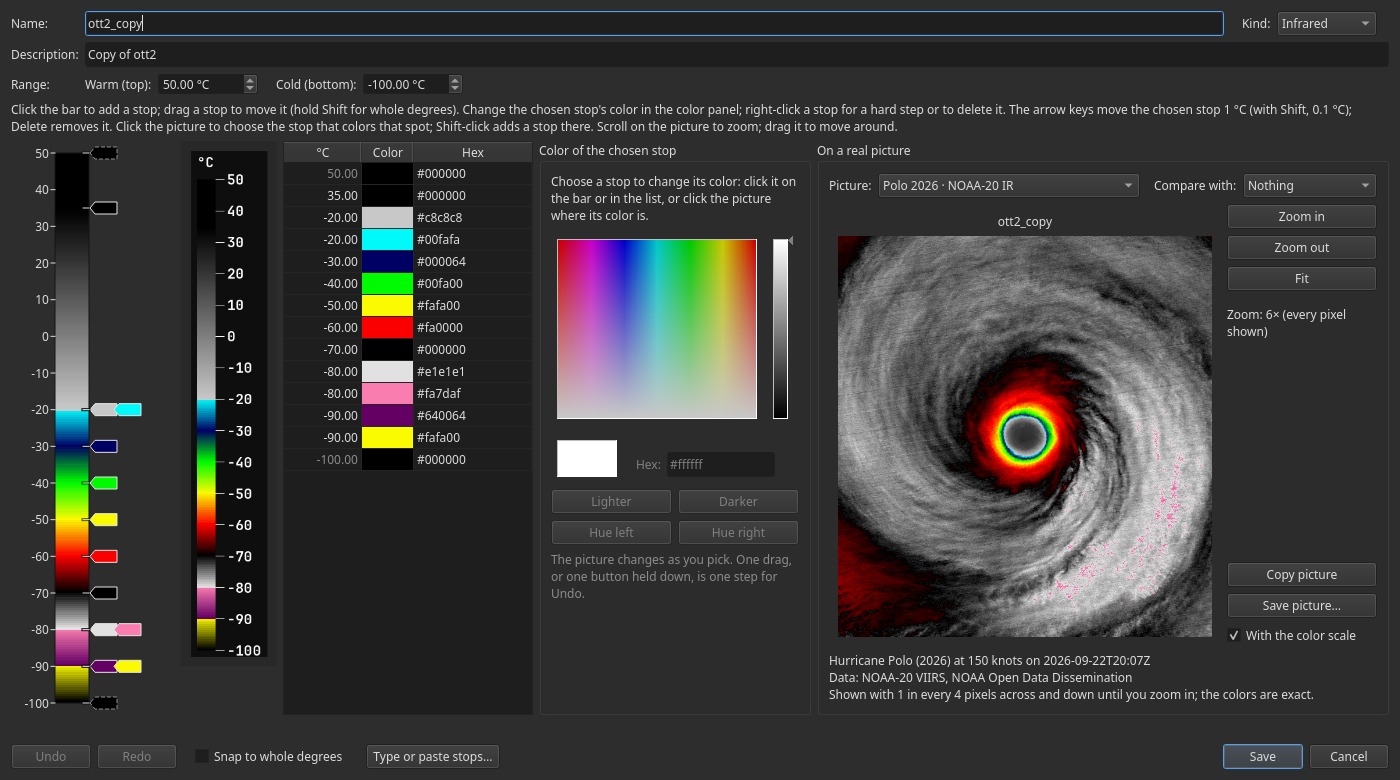
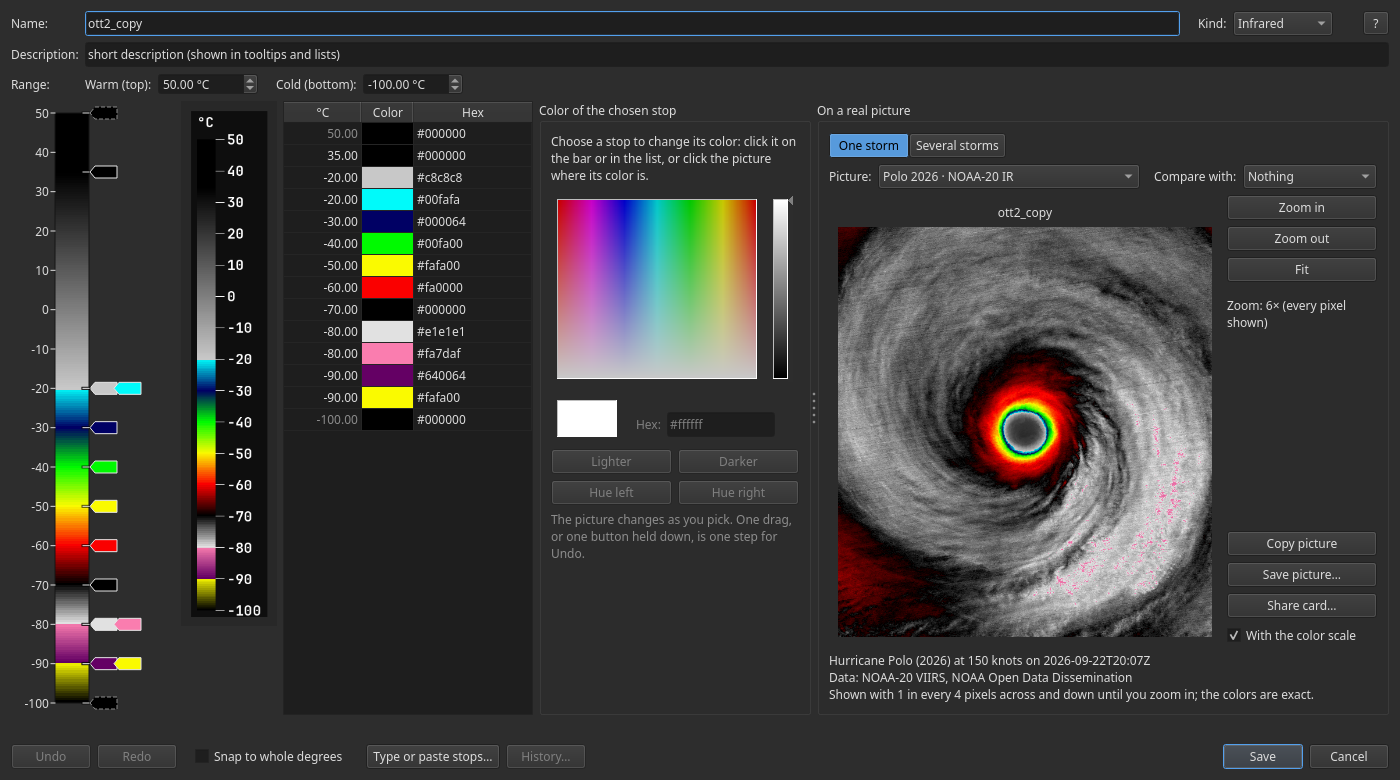
Update from tcviz e548938

diff --git a/tcviz_gui/pages/colortable_editor_dialog.py b/tcviz_gui/pages/colortable_editor_dialog.py
@@ -1074,7 +1074,8 @@ class ColortableEditorDialog(QDialog):
         self._show_swipe_controls(compare, swipe)
         if not swipe:
             self.picture_pane.set_swipe(None)
-        if source is None:
+        if source is None or self._loading:
+            # (an edit while another picture is read leaves the words, not the picture before it)
             message = "Loading the picture…" if self._loading else "No picture."
             self.picture_pane.set_message(message)
             self.compare_pane.set_message(message)
@@ -1561,9 +1562,13 @@ class ColortableEditorDialog(QDialog):
 
     def open_storm(self, sample_id):
         """Show bundled sample `sample_id` on its own: One storm, with it in the Picture box
-        (a double-click on a storm of the grid). Whether it is shown."""
-        if not self.show_sample(sample_id):
+        (a double-click on a storm of the grid), read in the background as one chosen there
+        is. Whether it is shown, or being read to be."""
+        choice = f"bundled:{sample_id}"
+        if sample_id not in self._bundled:
             return False
+        if choice != self._picture_choice or self._preview is None:
+            self._load_bundled(choice)
         self.set_view("one")
         self._say(f"Showing {self._bundled[sample_id].label} on its own. Several storms shows the grid again.")
         return True
@@ -1645,7 +1650,9 @@ class ColortableEditorDialog(QDialog):
         if not choice or choice == self._picture_choice:
             return
         what, value = choice.split(":", 1)
-        if what in ("sample", "bundled"):
+        if what == "bundled":
+            self._load_bundled(choice)
+        elif what == "sample":
             self._load_choice(choice)
         elif what in ("recent", "file"):
             self._load_file(value, choice)
@@ -1668,7 +1675,10 @@ class ColortableEditorDialog(QDialog):
         return f"sample:{kind}"
 
     def _load_choice(self, choice):
-        """Show a sample: "sample:<kind>" (tcviz's own) or "bundled:<id>"."""
+        """Show a sample now: "sample:<kind>" (tcviz's own) or "bundled:<id>" -- read here, on
+        the window's own thread (a picture chosen in the Picture box is read in the
+        background instead: _load_bundled)."""
+        self._job = next(self._jobs)        # a picture still being read in the background is not wanted now
         what, value = choice.split(":", 1)
         if what == "bundled":
             sample = self._bundled.get(value)
@@ -1686,6 +1696,7 @@ class ColortableEditorDialog(QDialog):
         self._load_sample(value)
 
     def _load_sample(self, kind):
+        self._job = next(self._jobs)
         try:
             self._preview = colortable_preview.load_sample(kind)
         except (OSError, ValueError) as e:
@@ -1698,13 +1709,45 @@ class ColortableEditorDialog(QDialog):
     def _load_file(self, path, choice):
         """Open a saved picture in the background: a big one takes a moment to read."""
         from tcviz_gui.worker import run_in_background
-        self._loading = path
+        self._start_loading(path, choice)
+        run_in_background(_load_picture_job, path, str(_output_dir()), self._job,
+                          on_finished=self._on_picture_loaded, on_failed=self._on_picture_failed)
+
+    def _load_bundled(self, choice):
+        """A bundled sample chosen in the Picture box, read in the background: a VIIRS or SGLI
+        one takes about a second to unpack, which held the whole window still."""
+        from tcviz_gui.worker import run_in_background
+        sample = self._bundled.get(choice.split(":", 1)[1])
+        if sample is None:
+            self._load_choice(choice)       # says it can't be opened
+            return
+        self._start_loading(choice, choice)
+        run_in_background(_load_bundled_job, sample, self._job, on_finished=self._on_bundled_loaded,
+                          on_failed=self._on_picture_failed)
+
+    def _start_loading(self, what, choice):
+        self._loading = what
         self._job = next(self._jobs)
         self.picture_pane.set_message("Loading the picture…")
         self.compare_pane.set_message("Loading the picture…")
         self._pending_choice = choice
-        run_in_background(_load_picture_job, path, str(_output_dir()), self._job,
-                          on_finished=self._on_picture_loaded, on_failed=self._on_picture_failed)
+        at = self.picture_combo.findData(choice)
+        if at >= 0:
+            # the Picture box names it at once (as it does a picture chosen in it)
+            self.picture_combo.blockSignals(True)
+            self.picture_combo.setCurrentIndex(at)
+            self.picture_combo.blockSignals(False)
+
+    def _on_bundled_loaded(self, result):
+        job, source, why = result
+        if job != self._job:
+            return                  # a picture asked for before the latest one
+        self._loading = None
+        self._picture_choice = self._pending_choice
+        self._preview = source
+        if why is not None:
+            self._say(f"The sample picture could not be opened ({why}).")
+        self._after_picture()
 
     def _on_picture_loaded(self, result):
         job, source = result
@@ -1717,6 +1760,8 @@ class ColortableEditorDialog(QDialog):
         self._after_picture()
 
     def _on_picture_failed(self, message):
+        if self._loading is None:
+            return                  # a picture shown since: this one is not wanted any more
         self._loading = None
         self._say(f"That picture could not be opened: {message}")
         self._after_picture()
@@ -1992,6 +2037,15 @@ class ColortableEditorDialog(QDialog):
 def _load_picture_job(path, root, job):
     """Runs on a background thread: one saved picture, ready to preview."""
     return job, colortable_preview.load_picture(path, root=root)
+
+
+def _load_bundled_job(sample, job):
+    """Runs on a background thread: a bundled sample, ready to preview -- (job, the picture,
+    None), or (job, None, why it can't be opened)."""
+    try:
+        return job, colortable_preview.load_bundled(sample), None
+    except (OSError, ValueError) as e:
+        return job, None, str(e)
 
 
 def _output_dir():

diff --git a/tests/test_colortable_edition.py b/tests/test_colortable_edition.py
@@ -403,6 +403,17 @@ def test_built_in_tables_are_copied_not_changed(qapp, editor_edition):
 
 # ------------------------------------------------------------- the picture box
 
+def _wait_for(qapp, until, seconds=20):
+    import time
+
+    from PySide6.QtCore import QEventLoop
+    deadline = time.monotonic() + seconds
+    while not until() and time.monotonic() < deadline:
+        qapp.processEvents(QEventLoop.ProcessEventsFlag.AllEvents, 50)
+        time.sleep(0.01)
+    assert until()
+
+
 def test_the_picture_box_lists_the_bundled_samples(qapp, editor_edition, monkeypatch):
     from tcviz_gui.pages.colortable_editor_dialog import ColortableEditorDialog
     manifest = _manifest(editor_edition["editor"].parent / "samples", SAMPLES)
@@ -414,8 +425,10 @@ def test_the_picture_box_lists_the_bundled_samples(qapp, editor_edition, monkeyp
     assert d.picture_combo.itemData(0, 3) == SAMPLES[0]["description"]          # Qt.ToolTipRole
     assert d.picture_note.text().startswith(SAMPLES[0]["description"] + "\nPicture: NOAA GOES-19.")
     assert d._preview.full_shape == (40, 40) and not d._preview.water_vapor
-    d._on_picture_combo(1)
-    assert d.picture_combo.currentData() == "bundled:melissa_wv" and d._preview.water_vapor
+    d._on_picture_combo(1)                      # read in the background, the box naming it at once
+    assert d.picture_combo.currentData() == "bundled:melissa_wv" and d.picture_pane.message == "Loading the picture…"
+    _wait_for(qapp, lambda: d._loading is None)
+    assert d._picture_choice == "bundled:melissa_wv" and d._preview.water_vapor
     d.set_kind("wv")                                        # a water-vapor table opens on its own sample
     assert d.picture_combo.currentData() == "bundled:melissa_wv"
     d.undo_stack.setClean()
@@ -697,6 +710,8 @@ def test_several_storms_shows_the_table_on_several_storms_at_once(qapp, editor_e
     assert g.front is None and not g.back_btn.isEnabled()
     # a double-click: the storm on its own
     assert g.open_storm("melissa_wv") and d.view() == "one" and d.picture_combo.currentData() == "bundled:melissa_wv"
+    wait(lambda: d._loading is None)
+    assert d._picture_choice == "bundled:melissa_wv"
     assert d.set_view("several")
     d._ask_save_path = lambda suggested: str(tmp_path / "storms.png")
     assert g.save_grid()

diff --git a/README.md b/README.md
@@ -7,11 +7,42 @@ water-vapor color table stop by stop, and see it on a real storm as you go: the 
 tops around an eye, the rain bands, the dry slots in water vapor. When you like it, send it
 to a friend as a file or as a few lines of text to paste.
 
-![The main window: your tables first, then the six built-in ones](docs/main-window.png)
+It works offline: it never connects to the internet, needs no account, and keeps everything
+on your own computer.
 
 ![The editor: a copy of a built-in table, drawn on Hurricane Melissa](docs/editor.png)
 
+## What it can do
+
+**Build a table on a real storm.** The program comes with 23 real satellite pictures of
+storms (below). Point at the picture to read the temperature there, and click it to choose
+the stop that colors that spot.
+
+**Try it on several storms at once.** Several storms shows your table on the storms you
+choose, every one changing as you edit. Click one to bring it to the front.
+
+![Several storms: Hurricane Polo in front, the others beside it](docs/several-storms.png)
+
+**Compare two tables.** Compare with puts another table beside yours, or, with Swipe ticked,
+on the same picture: drag the line across to see where they differ.
+
+![Swipe: your table left of the line, bd05 right of it](docs/swipe.png)
+
+**Look up close.** Zoom in to see every pixel: the VIIRS pictures have 375-meter pixels.
+
 ![A 375-meter VIIRS picture, zoomed in on the eye](docs/viirs.png)
+
+**Share it.** Share card… makes one picture to post: your table's name, its color scale and
+the storm drawn with it. Copy for sharing and Export… send the table itself, and Import…
+brings in the ones your friends send.
+
+<img src="docs/share-card.png" width="420" alt="A share card: the table, its color scale and Hurricane Melissa">
+
+**Never lose your work.** Each save keeps the version it replaces (History…), deleted tables
+can be restored, and changes you hadn't saved are offered back if the program closes
+unexpectedly.
+
+![The main window: your tables first, then the six built-in ones](docs/main-window.png)
 
 ## Download
 
@@ -48,6 +79,9 @@ stay.
 
 If it won't start, open a terminal in its folder and run
 `./ColortableEditor-x86_64.AppImage --appimage-extract-and-run`.
+
+For a new version, replace the old AppImage with the new one; your own tables are kept
+elsewhere (below), so they stay.
 
 ## How to use
 
